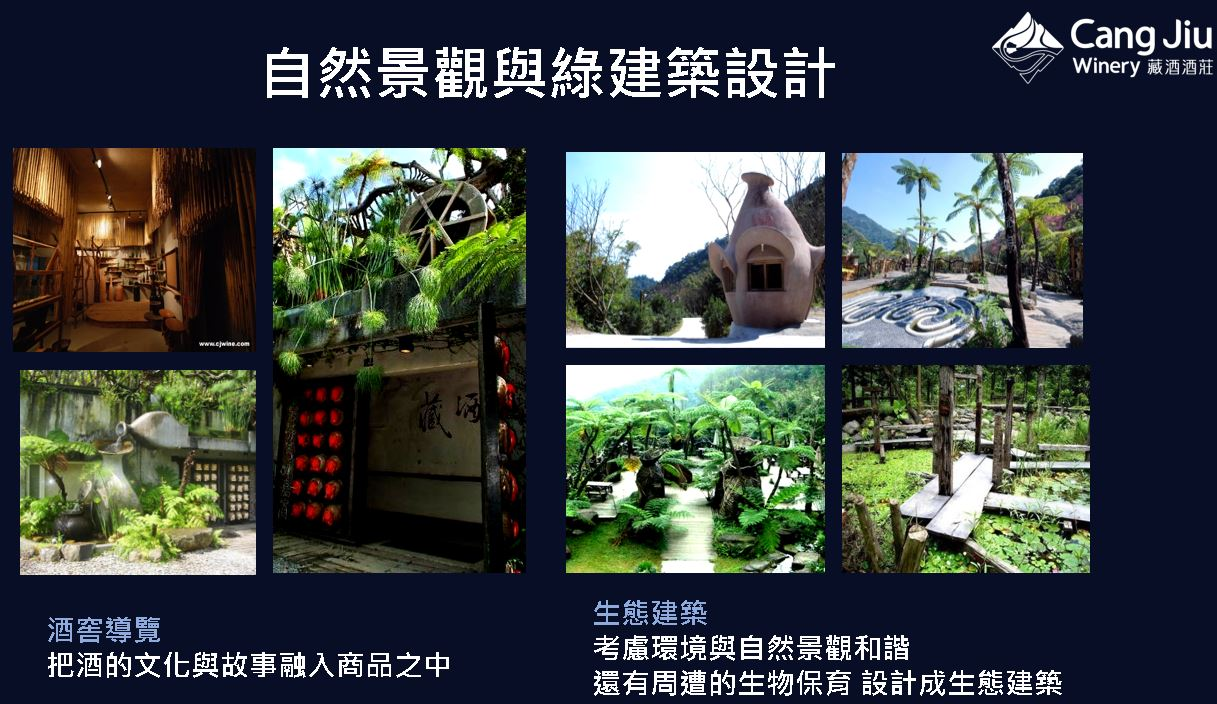
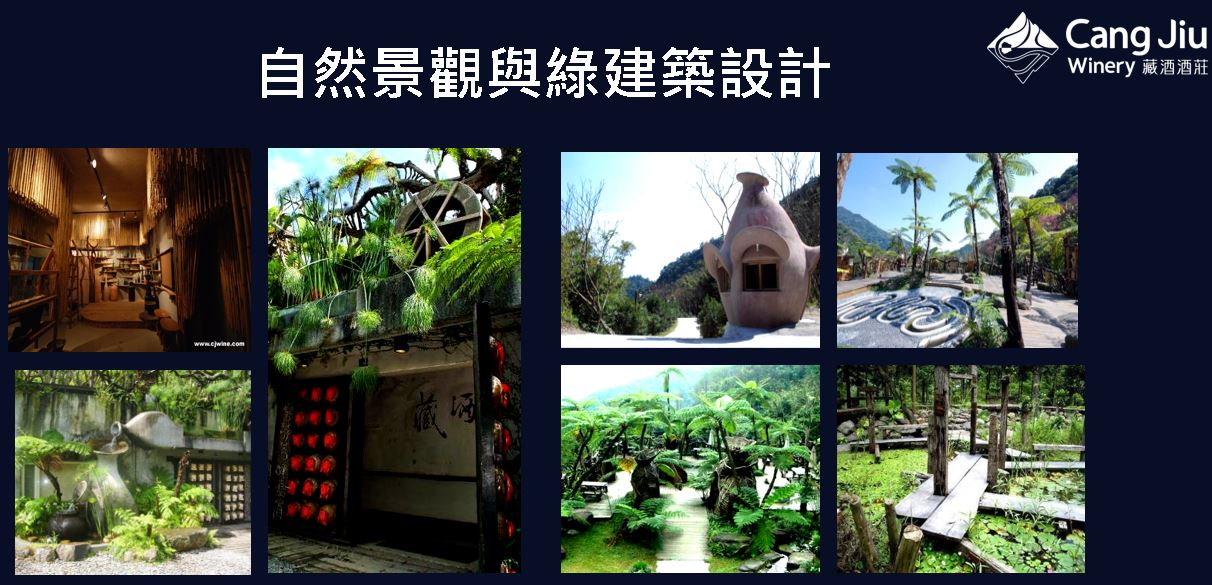
page20: 圖片opacity降為0.6, overlay降至5-20%半透明

diff --git a/index.html b/index.html
@@ -77,8 +77,8 @@ body{font-family:'Segoe UI','Noto Sans TC','Microsoft JhengHei',system-ui,sans-s
 .scroll-hint2{position:absolute;bottom:3vh;left:50%;transform:translateX(-50%);color:rgba(255,255,255,.6);font-size:clamp(.8rem,1vw,.9rem);letter-spacing:1px;text-shadow:0 1px 8px rgba(0,0,0,.5)}
 .scroll-hint2 span{display:inline-block;animation:bounce2 1.5s infinite}
 .slide-bg{position:absolute;inset:0;z-index:0}
-.slide-bg-img{width:100%;height:100%;object-fit:cover;display:block}
-.slide-bg-overlay{position:absolute;inset:0;background:linear-gradient(135deg,rgba(10,31,14,.55),rgba(26,58,30,.4))}
+.slide-bg-img{width:100%;height:100%;object-fit:cover;display:block;opacity:.6}
+.slide-bg-overlay{position:absolute;inset:0;background:linear-gradient(135deg,rgba(10,31,14,.2) 0%,rgba(10,31,14,.1) 60%,rgba(26,58,30,.05) 100%)}
 .s-img-row2{display:flex;gap:10px;margin-top:16px}
 .s-img-col{flex:1}
 .s-img-col img{width:100%;height:160px;object-fit:cover;border-radius:8px;box-shadow:0 2px 8px rgba(0,0,0,.2)}